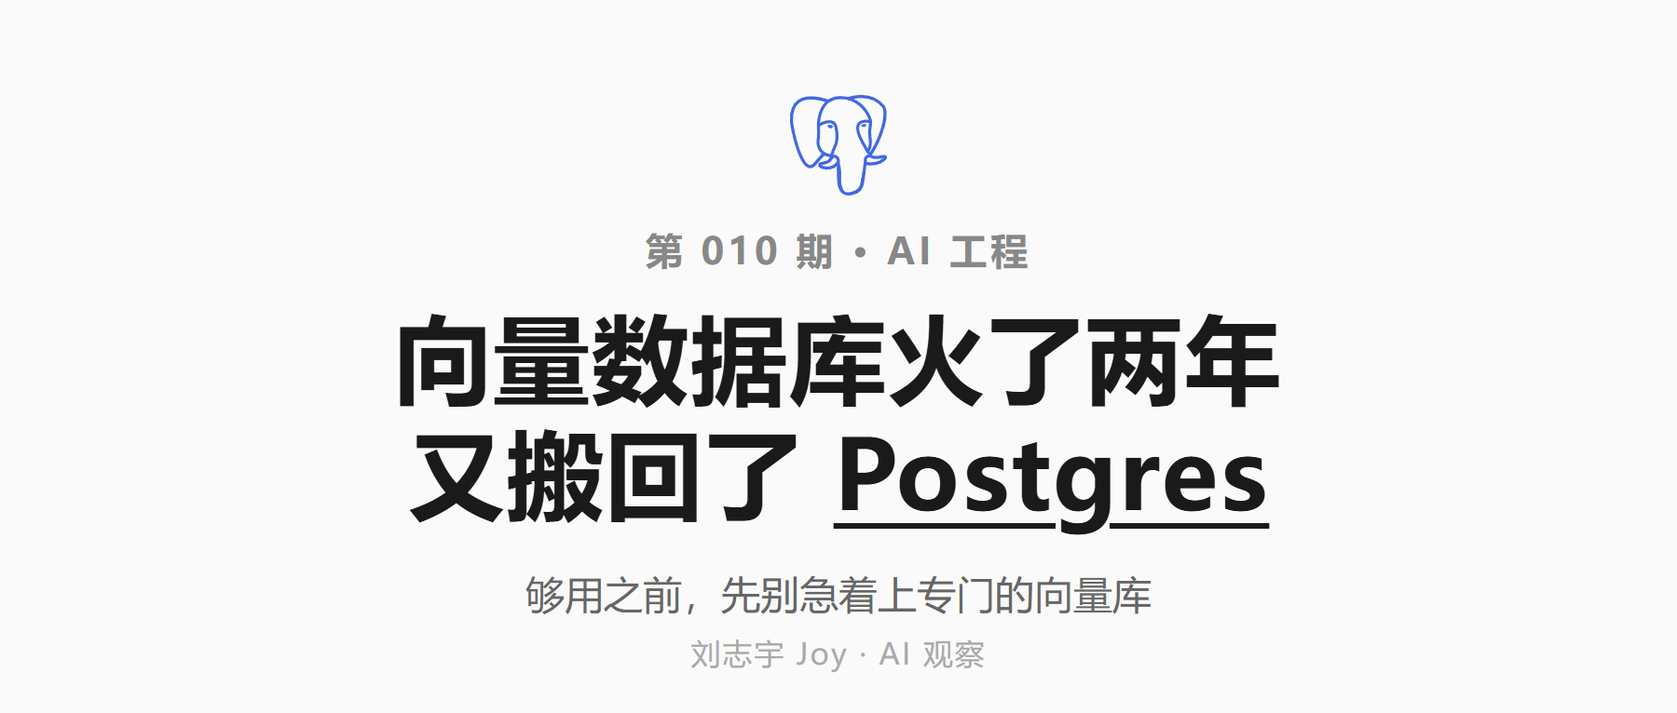
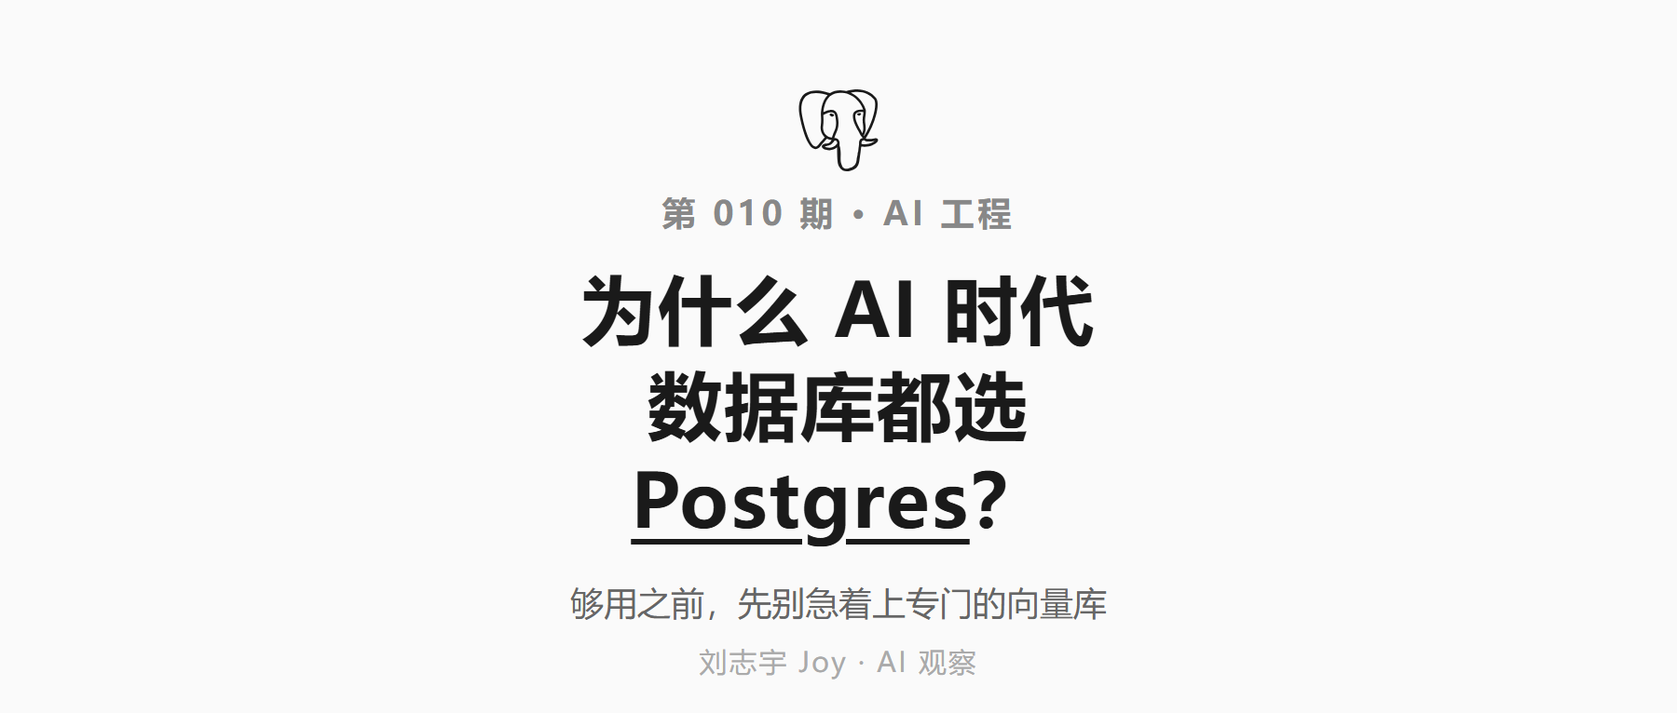
优化：010 期 · 标题改回疑问句《为什么 AI 时代的数据库都选 Postgres？》+ 删正文 3 张自制架构图 + 封面重做 + 截图位改可编辑提示行 + memory 三则
本次任务（按 Joy 反馈）:
- 标题: 直陈句改回疑问句, draft.md/wechat.html(title/h1/封面alt) 四处同步, 候选区更新
- 架构图: draft.md 与 wechat.html 正文里 diagram-1/2/3 的 img+图注全删, 只留真实网页截图位
- 封面: 换新标题文案 + PG 大象图标改纯黑(原蓝色违反零彩色) + 标题切三短行适配手机窄屏, 渲染覆盖 cover-010.png; 新增 pg-icon-black.svg
- 截图位: 灰底框占位(微信里改不动)改成可编辑提示行(裸网址+说明+"上传后删本行"); 文末下载区只留封面, copyImg 加安全上下文检测(file:// 提示用下载)
- memory: 封面纯黑白补"标题多换行" + 配图工作流补"截图位用提示行/复制图片仅 https 可用"并更新 copyImg + MEMORY.md 索引

附带: diagram-1/2/3 源文件(html/png)为本会话前既有改动, 一并提交

diff --git a/issues/010-just-use-postgres/platforms/wechat.html b/issues/010-just-use-postgres/platforms/wechat.html
@@ -3,7 +3,7 @@
 <head>
 <meta charset="UTF-8">
 <meta name="viewport" content="width=device-width, initial-scale=1.0">
-<title>向量数据库火了两年，大家又搬回了 Postgres · 公众号版</title>
+<title>为什么 AI 时代的数据库都选 Postgres？· 公众号版</title>
 <style>
   body { margin: 0; background: #f2f2f2; }
   #copy-btn { font-family: system-ui, sans-serif; }
@@ -18,10 +18,10 @@
 
 <article id="wx-body" style="max-width:677px; margin:0 auto; background:white; padding:40px 24px 60px;">
 
-  <figure style="margin:0 0 28px; text-align:center;"><img src="../assets/cover-010.png" alt="向量数据库火了两年，大家又搬回了 Postgres" width="629" style="max-width:100%; height:auto; display:block; margin:0 auto;" /></figure>
+  <figure style="margin:0 0 28px; text-align:center;"><img src="../assets/cover-010.png" alt="为什么 AI 时代的数据库都选 Postgres" width="629" style="max-width:100%; height:auto; display:block; margin:0 auto;" /></figure>
 
   <h1 style="margin:0 8px 6px; font-size:23px; font-weight:700; line-height:1.5;">
-    <span style="font-family:Optima-Regular,PingFangTC-light,'PingFang SC','Hiragino Sans GB',sans-serif; color:rgb(0,0,0);">向量数据库火了两年，大家又搬回了 Postgres</span>
+    <span style="font-family:Optima-Regular,PingFangTC-light,'PingFang SC','Hiragino Sans GB',sans-serif; color:rgb(0,0,0);">为什么 AI 时代的数据库都选 Postgres？</span>
   </h1>
   <p style="margin:0 8px 36px; line-height:1.5;">
     <span style="font-family:Optima-Regular,PingFangTC-light,sans-serif; font-size:13px; letter-spacing:0.5px; color:rgb(170,170,170);">2026 · AI 工程观察 · 刘志宇 Joy</span>
@@ -61,14 +61,13 @@
 
   <p style="margin:0 8px 32px; line-height:1.75em; letter-spacing:0.578px;"><span style="font-family:Optima-Regular,PingFangTC-light,'PingFang SC','Hiragino Sans GB',sans-serif; font-size:16px; letter-spacing:0.5px; color:rgb(34,34,34);">要看懂这个反转，得先认识 pgvector。它是个开源扩展，给 Postgres 装上向量类型和向量索引，让相似度检索变成普通 SQL 的一部分。它不算新东西，2021 年就有了，但早期只有一种较慢的索引，撑不起认真的生产负载。真正让它能打的那块拼图，是 2023 年下半年加进的 HNSW 索引。有了 HNSW，pgvector 在百万级向量上的检索延迟能压到几十毫秒、召回率超过九成，跟专用向量库放进同一个量级里比，不再是玩具。从那以后，几乎所有主流托管 Postgres，AWS、Supabase、Neon、Azure、Google Cloud，都把 pgvector 当成开箱即用的标配。</span></p>
 
+  <p style="margin:0 8px 32px; line-height:1.75em; letter-spacing:0.578px; text-align:center;"><span style="font-family:Optima-Regular,PingFangTC-light,sans-serif; font-size:14px; letter-spacing:0.5px; color:rgb(150,150,150);">〖 此处插一张截图：pgvector 已是主流（GitHub 两万多星、各大托管 Postgres 标配）<br>截图来源 github.com/pgvector/pgvector ·  上传图片后删掉本行 〗</span></p>
+
   <p style="margin:0 8px 32px; line-height:1.75em; letter-spacing:0.578px;"><span style="font-family:Optima-Regular,PingFangTC-light,'PingFang SC','Hiragino Sans GB',sans-serif; font-size:16px; letter-spacing:0.5px; color:rgb(34,34,34);">押得最狠的是 Supabase。这家公司本来就靠把 Postgres 包装成好用的后端起家，这两年它几乎把整个 AI 故事都压在 Postgres 上：开箱带 pgvector，产品线直接叫 Supabase Vector，围着它做了自动向量化、语义缓存一整套工具，还亲自写文章跟 Pinecone 比成本、比性能，论证同等场景下 pgvector 更省也更够用。市场给的回应不小：2025 年 4 月，这家走纯 Postgres 路线的公司融了两亿美元，估值二十亿。</span></p>
 
   <p style="margin:0 8px 32px; line-height:1.75em; letter-spacing:0.578px;"><span style="font-family:Optima-Regular,PingFangTC-light,'PingFang SC','Hiragino Sans GB',sans-serif; font-size:16px; letter-spacing:0.5px; color:rgb(34,34,34);">当然，Supabase 卖的就是 Postgres 托管，它说 pgvector 够用，本来就带着立场。有意思的是另一头：Pinecone 也专门写了文章，逐条论证 pgvector 为什么不够认真用，这些批评后面会收。一边卖向量库的说你需要它，一边卖 Postgres 的说你不需要，两边都有自己的立场。<strong>但风往哪边吹，看默认架构图就知道：两年前你得解释为什么敢用 Postgres 做向量，现在要解释的反过来是，为什么还得单独上一个向量库。</strong></span></p>
 
   <p style="margin:0 8px 32px; line-height:1.75em; letter-spacing:0.578px;"><span style="font-family:Optima-Regular,PingFangTC-light,'PingFang SC','Hiragino Sans GB',sans-serif; font-size:16px; letter-spacing:0.5px; color:rgb(34,34,34);">得说清楚，这不代表向量库凉了。这个市场还在快速变大，有机构预测它会从 2024 年的约二十亿美元长到 2032 年的上百亿（机构预测口径本来就宽，看个量级就好）。变的不是这门生意的死活，是它的起点位置：向量库从做 AI 应用的第一步，退回成撞到墙之后才考虑的一步。<strong style="text-decoration:underline;">pgvector 没杀死谁，它只是把最大的那块入门市场，从专用库手里端走了。</strong></span></p>
-
-  <figure style="margin:0 8px 8px; text-align:center;"><img src="../assets/diagram-1.png" alt="起点位置反转：向量库从第一步退到撞墙才考虑" width="620" style="max-width:100%; height:auto; display:block; margin:0 auto;" /></figure>
-  <p style="margin:0 8px 32px; line-height:1.6; letter-spacing:0.578px; text-align:center;"><span style="font-family:Optima-Regular,PingFangTC-light,sans-serif; font-size:12px; letter-spacing:0.5px; color:rgb(150,150,150);">图 1 · 向量库从「第一步」退到「撞墙才考虑」<br><span style="font-family:'SF Mono','Menlo',monospace; font-size:10.5px; color:rgb(180,180,180); word-break:break-all;">来源 https://techcrunch.com/2023/04/27/pinecone-drops-100m-investment-on-750m-valuation-as-vector-database-demand-grows/ · https://www.globenewswire.com/news-release/2025/03/07/3039040/0/en/Vector-Database-Market-to-Reach-USD-10-6-Billion-by-2032-SNS-Insider.html</span></span></p>
 
   <!-- 03 -->
   <section style="padding:3px; display:inline-block; border-top:6px solid rgb(0,0,0); margin:40px 8px 8px;">
@@ -85,9 +84,6 @@
   <p style="margin:0 8px 32px; line-height:1.75em; letter-spacing:0.578px;"><span style="font-family:Optima-Regular,PingFangTC-light,'PingFang SC','Hiragino Sans GB',sans-serif; font-size:16px; letter-spacing:0.5px; color:rgb(34,34,34);">第二，少养一套系统。上一个专门的向量库，你的架构里就多出一块：它要单独部署、单独配一套凭据、单独接进监控、出问题单独排查，半夜宕的时候也会单独把你叫醒。用 pgvector，这一块整个没了，向量就是你主库里的几张表。对小团队和快迭代的产品，省下的这份运维负担，常常比那点性能差更值钱。你本来人就不够，不会想再多伺候一个系统。</span></p>
 
   <p style="margin:0 8px 32px; line-height:1.75em; letter-spacing:0.578px;"><span style="font-family:Optima-Regular,PingFangTC-light,'PingFang SC','Hiragino Sans GB',sans-serif; font-size:16px; letter-spacing:0.5px; color:rgb(34,34,34);">第三，检索就是一句 SQL。向量检索不再是另一个系统的接口调用，而是普通查询的一部分。举个常见场景：你要在某个用户自己的文档里，按语义找最相关的五段。用 pgvector，这就是一条 SQL，先按用户和权限过滤，再按向量相似度排序，顺手 join 上文档表拿标题。换成两套系统，你得先去向量库查一批，再回主库验证权限、补全字段，来回倒腾，还要担心两边对不上。Postgres 三十年攒下的事务、备份、复制、权限这套东西，在这里全都顺带就用上了。</span></p>
-
-  <figure style="margin:0 8px 8px; text-align:center;"><img src="../assets/diagram-2.png" alt="两套系统要对账 vs 一个库一条 SQL 查完" width="620" style="max-width:100%; height:auto; display:block; margin:0 auto;" /></figure>
-  <p style="margin:0 8px 32px; line-height:1.6; letter-spacing:0.578px; text-align:center;"><span style="font-family:Optima-Regular,PingFangTC-light,sans-serif; font-size:12px; letter-spacing:0.5px; color:rgb(150,150,150);">图 2 · 两套系统要对账 vs 一个库搞定<br><span style="font-family:'SF Mono','Menlo',monospace; font-size:10.5px; color:rgb(180,180,180); word-break:break-all;">来源 https://encore.dev/blog/you-probably-dont-need-a-vector-database</span></span></p>
 
   <p style="margin:0 8px 32px; line-height:1.75em; letter-spacing:0.578px;"><span style="font-family:Optima-Regular,PingFangTC-light,'PingFang SC','Hiragino Sans GB',sans-serif; font-size:16px; letter-spacing:0.5px; color:rgb(34,34,34);">说到底，不是 Postgres 突然学会了做向量，是 AI 应用要存的数据，原文加元数据加向量绑在一起、还得带着过滤条件查，这个形状本来就长在关系数据库的主场上。<strong>专门的向量库擅长的是另一件事：在海量向量里做极速的最近邻。两件事不一样，只是前两年很多人没分清。</strong></span></p>
 
@@ -111,14 +107,13 @@
 
   <p style="margin:0 8px 32px; line-height:1.75em; letter-spacing:0.578px;"><span style="font-family:Optima-Regular,PingFangTC-light,'PingFang SC','Hiragino Sans GB',sans-serif; font-size:16px; letter-spacing:0.5px; color:rgb(34,34,34);">规模再往上，裸的 pgvector 也会吃力，通常在几百万到上千万向量这个区间开始显出来。续命的办法是再加一个扩展，叫 pgvectorscale，它把一部分索引放到磁盘上、不全压在内存里，专门对付大规模。做它的是 Tiger Data（原来的 Timescale）。按它自己的基准，在五千万向量的规模上加上 pgvectorscale，延迟能低到二十几倍、成本省七成多，反超 Pinecone（据 Tiger Data 自家基准）。这组数字很漂亮，但两件事得记住：一是它出自卖 Postgres 服务的公司自己的测试，口径自己定；二是立功的是 pgvectorscale 这个额外扩展，不是 pgvector 本身。这俩名字像，经常被当成一个东西，其实是两层。</span></p>
 
+  <p style="margin:0 8px 32px; line-height:1.75em; letter-spacing:0.578px; text-align:center;"><span style="font-family:Optima-Regular,PingFangTC-light,sans-serif; font-size:14px; letter-spacing:0.5px; color:rgb(150,150,150);">〖 此处插一张截图：pgvector vs Pinecone 性能与成本基准（Tiger Data 自家口径）<br>截图来源 tigerdata.com/blog/pgvector-is-now-as-fast-as-pinecone-at-75-less-cost ·  上传图片后删掉本行 〗</span></p>
+
   <p style="margin:0 8px 32px; line-height:1.75em; letter-spacing:0.578px;"><span style="font-family:Optima-Regular,PingFangTC-light,'PingFang SC','Hiragino Sans GB',sans-serif; font-size:16px; letter-spacing:0.5px; color:rgb(34,34,34);">那什么时候是专用库真正更合适？几种情况很清楚。向量到了亿级、写入吞吐极大，这是 Pinecone 这类托管系统的主场，你不用操心怎么扩容。对延迟和每秒查询数有极致要求的，Qdrant 用 Rust 写的内核在这块最快。需要很重的多租户和混合检索的，Weaviate 在这个方向上更专。还有一种最简单的情况：你的栈里压根没有 Postgres，那 pgvector 复用现有库的好处就归零，直接上一个专用库反而更干脆。</span></p>
 
   <p style="margin:0 8px 32px; line-height:1.75em; letter-spacing:0.578px;"><span style="font-family:Optima-Regular,PingFangTC-light,'PingFang SC','Hiragino Sans GB',sans-serif; font-size:16px; letter-spacing:0.5px; color:rgb(34,34,34);">反过来，从专用库迁回 Postgres 也不是免费的。有团队把生产系统从 Pinecone 迁到 pgvector，花了几天工程时间重导向量、重建索引、调参数，换来每月省下一千多美元的账单；也有团队把 Pinecone 加一套关系库，合并成 Neon 上的一个 Postgres，延迟还降了一截（这些都是迁移方或托管商自己讲的复盘，有立场，听个思路就好）。迁移有成本，但对很多正为账单和运维发愁的团队，这笔账算得过来。</span></p>
 
   <p style="margin:0 8px 32px; line-height:1.75em; letter-spacing:0.578px;"><span style="font-family:Optima-Regular,PingFangTC-light,'PingFang SC','Hiragino Sans GB',sans-serif; font-size:16px; letter-spacing:0.5px; color:rgb(34,34,34);">至于到底多少向量算该升级，没有一个干净的数字。有人说一百万，有人说五百万，也有人说一千万以上加高并发才需要，它取决于你的并发量、过滤复杂度、更新频率。</span></p>
-
-  <figure style="margin:0 8px 8px; text-align:center;"><img src="../assets/diagram-3.png" alt="默认 Postgres，撞到这几堵墙才升级专用库" width="620" style="max-width:100%; height:auto; display:block; margin:0 auto;" /></figure>
-  <p style="margin:0 8px 32px; line-height:1.6; letter-spacing:0.578px; text-align:center;"><span style="font-family:Optima-Regular,PingFangTC-light,sans-serif; font-size:12px; letter-spacing:0.5px; color:rgb(150,150,150);">图 3 · 撞到可量化的墙再升级，不是第一步<br><span style="font-family:'SF Mono','Menlo',monospace; font-size:10.5px; color:rgb(180,180,180); word-break:break-all;">来源 https://www.pinecone.io/blog/pinecone-vs-pgvector/ · https://www.tigerdata.com/blog/pgvector-is-now-as-fast-as-pinecone-at-75-less-cost</span></span></p>
 
   <p style="margin:0 8px 32px; line-height:1.75em; letter-spacing:0.578px;"><span style="font-family:Optima-Regular,PingFangTC-light,'PingFang SC','Hiragino Sans GB',sans-serif; font-size:16px; letter-spacing:0.5px; color:rgb(34,34,34);">这个数字不必纠结，关键是先后：默认用 Postgres，直到撞上一堵能量化的墙（延迟超标、内存扛不住、过滤场景做不动），再换专门的向量库。<strong style="text-decoration:underline;">它是撞墙之后的选择，不是第一步。</strong></span></p>
 
@@ -181,29 +176,15 @@
 
 <!-- 配图下载区 · 在 article 外，不会被「复制正文」带走；发布后无需理会 -->
 <section style="max-width:677px; margin:24px auto 60px; padding:28px 24px; border-top:1px solid #e6e6e6;">
-  <p style="margin:0 0 4px; font-family:system-ui,sans-serif; font-size:15px; font-weight:700; color:#111;">本文配图 · 点按钮直接复制</p>
-  <p style="margin:0 0 22px; font-family:system-ui,sans-serif; font-size:12.5px; color:#888; line-height:1.7;">点「复制图片」→ 到公众号编辑器 Ctrl+V 粘贴；或「下载」存到本地传素材库。这一区在正文之外，不会被「复制正文」带走。头图 cover-010.png 待封面生成后替换。</p>
+  <p style="margin:0 0 4px; font-family:system-ui,sans-serif; font-size:15px; font-weight:700; color:#111;">本文头图 · 点按钮直接复制</p>
+  <p style="margin:0 0 22px; font-family:system-ui,sans-serif; font-size:12.5px; color:#888; line-height:1.7;">点「复制图片」→ 到公众号编辑器 Ctrl+V 粘贴；或「下载」存到本地传素材库。这一区在正文之外，不会被「复制正文」带走。复制需在浏览器里打开（file:// 双击本地文件时复制不可用，用「下载」即可）。</p>
 
   <div style="display:flex; flex-direction:column; gap:24px;">
     <div style="text-align:center;">
-      <img id="img-d1" src="../assets/diagram-1.png" alt="图 1 起点位置反转" style="max-width:100%; width:360px; height:auto; display:block; margin:0 auto 10px; border:1px solid #e6e6e6; border-radius:4px;" />
-      <p style="margin:0 0 8px; font-family:system-ui,sans-serif; font-size:12px; color:#999;">图 1 · diagram-1.png</p>
-      <button onclick="copyImg('img-d1', this)" style="padding:7px 16px; margin:0 4px; background:#111; color:#fff; border:0; border-radius:6px; font-size:13px; font-weight:600; cursor:pointer; font-family:system-ui,sans-serif;">复制图片</button>
-      <a href="../assets/diagram-1.png" download="diagram-1.png" style="padding:7px 16px; margin:0 4px; background:#fff; color:#555; border:1px solid #ccc; border-radius:6px; font-size:13px; font-weight:600; cursor:pointer; text-decoration:none; font-family:system-ui,sans-serif;">下载</a>
-    </div>
-
-    <div style="text-align:center;">
-      <img id="img-d2" src="../assets/diagram-2.png" alt="图 2 两套系统 vs 一个库" style="max-width:100%; width:360px; height:auto; display:block; margin:0 auto 10px; border:1px solid #e6e6e6; border-radius:4px;" />
-      <p style="margin:0 0 8px; font-family:system-ui,sans-serif; font-size:12px; color:#999;">图 2 · diagram-2.png</p>
-      <button onclick="copyImg('img-d2', this)" style="padding:7px 16px; margin:0 4px; background:#111; color:#fff; border:0; border-radius:6px; font-size:13px; font-weight:600; cursor:pointer; font-family:system-ui,sans-serif;">复制图片</button>
-      <a href="../assets/diagram-2.png" download="diagram-2.png" style="padding:7px 16px; margin:0 4px; background:#fff; color:#555; border:1px solid #ccc; border-radius:6px; font-size:13px; font-weight:600; cursor:pointer; text-decoration:none; font-family:system-ui,sans-serif;">下载</a>
-    </div>
-
-    <div style="text-align:center;">
-      <img id="img-d3" src="../assets/diagram-3.png" alt="图 3 选型决策" style="max-width:100%; width:360px; height:auto; display:block; margin:0 auto 10px; border:1px solid #e6e6e6; border-radius:4px;" />
-      <p style="margin:0 0 8px; font-family:system-ui,sans-serif; font-size:12px; color:#999;">图 3 · diagram-3.png</p>
-      <button onclick="copyImg('img-d3', this)" style="padding:7px 16px; margin:0 4px; background:#111; color:#fff; border:0; border-radius:6px; font-size:13px; font-weight:600; cursor:pointer; font-family:system-ui,sans-serif;">复制图片</button>
-      <a href="../assets/diagram-3.png" download="diagram-3.png" style="padding:7px 16px; margin:0 4px; background:#fff; color:#555; border:1px solid #ccc; border-radius:6px; font-size:13px; font-weight:600; cursor:pointer; text-decoration:none; font-family:system-ui,sans-serif;">下载</a>
+      <img id="img-cover" src="../assets/cover-010.png" alt="封面" style="max-width:100%; width:360px; height:auto; display:block; margin:0 auto 10px; border:1px solid #e6e6e6; border-radius:4px;" />
+      <p style="margin:0 0 8px; font-family:system-ui,sans-serif; font-size:12px; color:#999;">封面 · cover-010.png</p>
+      <button onclick="copyImg('img-cover', this)" style="padding:7px 16px; margin:0 4px; background:#111; color:#fff; border:0; border-radius:6px; font-size:13px; font-weight:600; cursor:pointer; font-family:system-ui,sans-serif;">复制图片</button>
+      <a href="../assets/cover-010.png" download="cover-010.png" style="padding:7px 16px; margin:0 4px; background:#fff; color:#555; border:1px solid #ccc; border-radius:6px; font-size:13px; font-weight:600; cursor:pointer; text-decoration:none; font-family:system-ui,sans-serif;">下载</a>
     </div>
   </div>
 </section>
@@ -229,24 +210,33 @@ function copyWxArticle() {
   }, 2200);
 }
 
+function flash(btn, ok, failText){
+  var label = btn.getAttribute('data-label') || btn.textContent;
+  btn.setAttribute('data-label', label);
+  btn.textContent = ok ? '已复制 ✓' : (failText || '失败，请用「下载」');
+  btn.style.background = ok ? '#10b981' : '#dc2626';
+  setTimeout(function(){ btn.textContent = label; btn.style.background = '#111'; }, 2400);
+}
+
 function copyImg(imgId, btn) {
   var img = document.getElementById(imgId);
-  var label = btn.textContent;
-  function done(ok){
-    btn.textContent = ok ? '已复制 ✓' : '失败，请用「下载」';
-    btn.style.background = ok ? '#10b981' : '#dc2626';
-    setTimeout(function(){ btn.textContent = label; btn.style.background = '#111'; }, 2200);
+  // 复制图片到剪贴板依赖安全上下文（https 或 localhost）。
+  // 直接双击本地 file:// 打开时 navigator.clipboard.write 不可用，直接提示用下载。
+  if (!window.isSecureContext || !navigator.clipboard || !navigator.clipboard.write || !window.ClipboardItem) {
+    flash(btn, false, '本地打开请用「下载」');
+    return;
   }
   try {
     var c = document.createElement('canvas');
     c.width = img.naturalWidth; c.height = img.naturalHeight;
     c.getContext('2d').drawImage(img, 0, 0);
     c.toBlob(function(blob){
-      if (blob && window.ClipboardItem && navigator.clipboard && navigator.clipboard.write) {
-        navigator.clipboard.write([new ClipboardItem({'image/png': blob})]).then(function(){ done(true); }).catch(function(){ done(false); });
-      } else { done(false); }
+      if (!blob) { flash(btn, false); return; }
+      navigator.clipboard.write([new ClipboardItem({'image/png': blob})])
+        .then(function(){ flash(btn, true); })
+        .catch(function(){ flash(btn, false); });
     }, 'image/png');
-  } catch (e) { done(false); }
+  } catch (e) { flash(btn, false); }
 }
 </script>
 

diff --git a/issues/010-just-use-postgres/assets/diagram-2.html b/issues/010-just-use-postgres/assets/diagram-2.html
@@ -2,25 +2,25 @@
 <html lang="zh-CN"><head><meta charset="UTF-8">
 <style>
   * { box-sizing: border-box; }
-  body { margin:0; background:#fffdf8; font-family:'PingFang SC','Microsoft YaHei','Hiragino Sans GB',sans-serif; }
-  .fig { width:880px; background:#fffdf8; padding:44px 48px; }
+  body { margin:0; background:#fff; font-family:'PingFang SC','Microsoft YaHei','Hiragino Sans GB',sans-serif; }
+  .fig { width:880px; background:#fff; padding:44px 48px; }
   .tnum { font-family:'Futura','Helvetica Neue',Arial,sans-serif; font-size:30px; font-weight:700; color:#1a1a1a; border-top:6px solid #1a1a1a; display:inline-block; padding-top:6px; line-height:1; }
   .title { font-size:26px; font-weight:700; color:#1a1a1a; margin:16px 0 30px; }
   .cols { display:flex; gap:18px; align-items:stretch; }
-  .col { flex:1; border:1.5px solid #e2d9c2; border-radius:10px; padding:20px 20px 18px; background:#fffefb; display:flex; flex-direction:column; }
-  .lab { font-size:15px; font-weight:700; color:#9a8f78; margin-bottom:16px; }
+  .col { flex:1; border:1.5px solid #e0e0e0; border-radius:10px; padding:20px 20px 18px; background:#fcfcfc; display:flex; flex-direction:column; }
+  .lab { font-size:15px; font-weight:700; color:#888; margin-bottom:16px; }
   .node { padding:11px 14px; border-radius:8px; font-size:15px; font-weight:600; text-align:center; }
   .n-app { background:#1a1a1a; color:#fff; }
-  .n-db { background:#eceae3; color:#4a4a4a; }
-  .n-pg { background:#b8860b; color:#fff; line-height:1.35; }
-  .down { text-align:center; color:#c4b896; font-size:20px; line-height:1.1; margin:7px 0; }
+  .n-db { background:#ececec; color:#444; }
+  .n-pg { background:#1a1a1a; color:#fff; line-height:1.35; }
+  .down { text-align:center; color:#bbb; font-size:20px; line-height:1.1; margin:7px 0; }
   .two { display:flex; gap:12px; }
   .two .node { flex:1; }
-  .sync { text-align:center; font-size:13px; color:#b2402a; font-weight:700; margin:9px 0; }
-  .risk { margin-top:auto; background:#f7ece9; border-left:5px solid #b2402a; padding:11px 14px; font-size:13.5px; color:#b2402a; line-height:1.5; }
-  .good { margin-top:auto; background:#f3eddc; border-left:5px solid #b8860b; padding:11px 14px; font-size:13.5px; color:#8a6608; line-height:1.5; }
+  .sync { text-align:center; font-size:13px; color:#555; font-weight:700; margin:9px 0; }
+  .risk { margin-top:auto; background:#f2f2f2; border-left:5px solid #888; padding:11px 14px; font-size:13.5px; color:#666; line-height:1.5; }
+  .good { margin-top:auto; background:#f4f4f4; border-left:5px solid #1a1a1a; padding:11px 14px; font-size:13.5px; color:#1a1a1a; line-height:1.5; }
   .sql { font-family:'SFMono-Regular',Consolas,monospace; font-size:12.5px; }
-  .foot { margin-top:28px; font-size:13px; color:#a99c82; }
+  .foot { margin-top:28px; font-size:13px; color:#a5a5a5; }
 </style></head>
 <body>
   <div class="fig" id="fig">

diff --git a/issues/010-just-use-postgres/assets/diagram-3.html b/issues/010-just-use-postgres/assets/diagram-3.html
@@ -2,21 +2,21 @@
 <html lang="zh-CN"><head><meta charset="UTF-8">
 <style>
   * { box-sizing: border-box; }
-  body { margin:0; background:#fffdf8; font-family:'PingFang SC','Microsoft YaHei','Hiragino Sans GB',sans-serif; }
-  .fig { width:880px; background:#fffdf8; padding:44px 48px; }
+  body { margin:0; background:#fff; font-family:'PingFang SC','Microsoft YaHei','Hiragino Sans GB',sans-serif; }
+  .fig { width:880px; background:#fff; padding:44px 48px; }
   .tnum { font-family:'Futura','Helvetica Neue',Arial,sans-serif; font-size:30px; font-weight:700; color:#1a1a1a; border-top:6px solid #1a1a1a; display:inline-block; padding-top:6px; line-height:1; }
   .title { font-size:26px; font-weight:700; color:#1a1a1a; margin:16px 0 30px; }
-  .start { background:#b8860b; color:#fff; border-radius:10px; padding:16px 20px; font-size:19px; font-weight:700; text-align:center; }
-  .start span { display:block; font-size:13px; font-weight:600; opacity:.9; margin-top:3px; }
-  .down { text-align:center; color:#c4b896; font-size:24px; margin:12px 0 6px; }
+  .start { background:#1a1a1a; color:#fff; border-radius:10px; padding:16px 20px; font-size:19px; font-weight:700; text-align:center; }
+  .start span { display:block; font-size:13px; font-weight:600; opacity:.85; margin-top:3px; }
+  .down { text-align:center; color:#bbb; font-size:24px; margin:12px 0 6px; }
   .wallrow { display:flex; gap:14px; }
-  .wall { flex:1; background:#f7ece9; border:1.5px solid #e6c9c0; border-radius:9px; padding:15px 14px; text-align:center; }
-  .wall .h { font-size:16px; font-weight:700; color:#b2402a; margin-bottom:5px; }
-  .wall .d { font-size:12.5px; color:#a86b5e; line-height:1.45; }
-  .hint { text-align:center; font-size:13px; color:#9a8f78; margin:14px 0 6px; }
+  .wall { flex:1; background:#f4f4f4; border:1.5px solid #d8d8d8; border-radius:9px; padding:15px 14px; text-align:center; }
+  .wall .h { font-size:16px; font-weight:700; color:#1a1a1a; margin-bottom:5px; }
+  .wall .d { font-size:12.5px; color:#777; line-height:1.45; }
+  .hint { text-align:center; font-size:13px; color:#999; margin:14px 0 6px; }
   .end { background:#1a1a1a; color:#fff; border-radius:10px; padding:15px 20px; font-size:17px; font-weight:700; text-align:center; }
   .end span { display:block; font-size:13px; font-weight:500; opacity:.82; margin-top:4px; }
-  .foot { margin-top:28px; font-size:13px; color:#a99c82; }
+  .foot { margin-top:28px; font-size:13px; color:#a5a5a5; }
 </style></head>
 <body>
   <div class="fig" id="fig">

diff --git a/issues/010-just-use-postgres/assets/cover.html b/issues/010-just-use-postgres/assets/cover.html
@@ -4,18 +4,18 @@
   * { box-sizing: border-box; }
   body { margin:0; background:#fff; font-family:'PingFang SC','Microsoft YaHei','Hiragino Sans GB',sans-serif; }
   .cover { width:900px; height:383px; background:#fafafa; position:relative; overflow:hidden; display:flex; flex-direction:column; align-items:center; justify-content:center; }
-  .pgicon { width:54px; height:54px; display:block; margin-bottom:16px; }
-  .kicker { font-size:20px; color:#888; font-weight:600; letter-spacing:2px; margin-bottom:14px; }
-  .title { font-size:52px; font-weight:800; color:#1a1a1a; line-height:1.2; text-align:center; letter-spacing:1px; }
-  .title .em { color:#1a1a1a; text-decoration:underline; text-decoration-thickness:3px; text-underline-offset:7px; }
-  .sub { margin-top:20px; font-size:21px; color:#666; font-weight:500; }
-  .foot { position:absolute; bottom:22px; left:0; right:0; text-align:center; font-size:16px; color:#aaa; letter-spacing:1px; }
+  .pgicon { width:44px; height:44px; display:block; margin-bottom:10px; }
+  .kicker { font-size:18px; color:#888; font-weight:600; letter-spacing:2px; margin-bottom:14px; }
+  .title { font-size:40px; font-weight:800; color:#1a1a1a; line-height:1.28; text-align:center; letter-spacing:1px; }
+  .title .em { color:#1a1a1a; text-decoration:underline; text-decoration-thickness:3px; text-underline-offset:6px; }
+  .sub { margin-top:18px; font-size:18px; color:#666; font-weight:500; }
+  .foot { position:absolute; bottom:18px; left:0; right:0; text-align:center; font-size:15px; color:#aaa; letter-spacing:1px; }
 </style></head>
 <body>
   <div class="cover">
-    <img class="pgicon" src="pg-icon.svg" alt="PostgreSQL">
+    <img class="pgicon" src="pg-icon-black.svg" alt="PostgreSQL">
     <div class="kicker">第 010 期 · AI 工程</div>
-    <div class="title">向量数据库火了两年<br>又搬回了 <span class="em">Postgres</span></div>
+    <div class="title">为什么 AI 时代<br>数据库都选<br><span class="em">Postgres</span>？</div>
     <div class="sub">够用之前，先别急着上专门的向量库</div>
     <div class="foot">刘志宇 Joy · AI 观察</div>
   </div>

diff --git a/issues/010-just-use-postgres/assets/diagram-1.html b/issues/010-just-use-postgres/assets/diagram-1.html
@@ -13,12 +13,12 @@
   .stack { display:flex; flex-direction:column; gap:9px; }
   .box { padding:12px 15px; border-radius:8px; font-size:16px; font-weight:600; line-height:1.3; }
   .b-model { background:#eceae3; color:#4a4a4a; }
-  .b-hot { background:#b8860b; color:#fff; }
+  .b-hot { background:#1a1a1a; color:#fff; }
   .b-cold { background:#f2eee4; color:#a59d8a; border:1px dashed #cdbf9f; }
   .tag { display:block; font-size:12px; font-weight:600; margin-top:3px; opacity:.88; }
   .plus { text-align:center; color:#c4b896; font-weight:700; font-size:15px; line-height:1; }
   .arrow { display:flex; flex-direction:column; justify-content:center; align-items:center; color:#9a8f78; font-family:'Futura',sans-serif; font-size:12px; font-weight:700; padding:0 2px; }
-  .arrow .a { font-size:32px; line-height:1; color:#b8860b; }
+  .arrow .a { font-size:32px; line-height:1; color:#1a1a1a; }
   .foot { margin-top:28px; font-size:13px; color:#a99c82; }
 </style></head>
 <body>

diff --git a/issues/010-just-use-postgres/draft.md b/issues/010-just-use-postgres/draft.md
@@ -1,12 +1,12 @@
-# 向量数据库火了两年,大家又搬回了 Postgres
+# 为什么 AI 时代的数据库都选 Postgres？
 
 > 标题候选(定稿拍板):
-> A(主推)向量数据库火了两年,大家又搬回了 Postgres
-> B 做 AI 应用,你多半不需要专门的向量数据库
-> C 先别急着上向量数据库
-> D AI 没催生新数据库,反而把大家送回了 Postgres
+> A(主推)为什么 AI 时代的数据库都选 Postgres？
+> B 为什么 AI 时代越来越多人选 Postgres
+> C 向量数据库火了两年,大家又搬回了 Postgres
+> D 做 AI 应用,你多半不需要专门的向量数据库
 >
-> 状态:**v3**。按 Joy 反馈:每章加正文引导 / 背景,内容写深(补机制、场景、迁移案例),每张图下挂来源网址。事实带 inline 链接(markdown 真源);HNSW(0.5.0 / 2023 下半年)、Pinecone B 轮、Supabase 融资已核实。转 wechat.html 时撤正文链接、把图注来源烤进图里。
+> 状态:**v4**。按 Joy 反馈:标题改回疑问句(不剧透结论);删掉正文里 3 张自制架构图(diagram-1/2/3),只保留真实网页截图位。内容写深(补机制、场景、迁移案例),事实带 inline 链接(markdown 真源);HNSW(0.5.0 / 2023 下半年)、Pinecone B 轮、Supabase 融资已核实。转 wechat.html 时撤正文链接。
 
 ---
 
@@ -36,8 +36,7 @@
 
 得说清楚,这不代表向量库凉了。这个市场还在快速变大,有机构预测它会从 2024 年的约二十亿美元长到 2032 年的上百亿(机构预测口径本来就宽,看个量级就好)。变的不是这门生意的死活,是它的起点位置:向量库从做 AI 应用的第一步,退回成撞到墙之后才考虑的一步。pgvector 没杀死谁,它只是把最大的那块入门市场,从专用库手里端走了。
 
-![图 1 · 起点位置的反转:向量库从「第一步」退到「撞墙才考虑」· 待生成](assets/diagram-1.png)
-> 图注来源:Pinecone B 轮报道 https://techcrunch.com/2023/04/27/pinecone-drops-100m-investment-on-750m-valuation-as-vector-database-demand-grows/ · 市场规模预测 https://www.globenewswire.com/news-release/2025/03/07/3039040/0/en/Vector-Database-Market-to-Reach-USD-10-6-Billion-by-2032-SNS-Insider.html
+> 📷 额外截图位（Joy 自截真实网页）:pgvector 已是主流 — https://github.com/pgvector/pgvector
 
 ## 03 为什么偏偏是 Postgres
 
@@ -48,9 +47,6 @@
 第二,少养一套系统。上一个专门的向量库,你的架构里就多出一块:它要单独部署、单独配一套凭据、单独接进监控、出问题单独排查,半夜宕的时候也会单独把你叫醒。用 pgvector,这一块整个没了,向量就是你主库里的几张表。对小团队和快迭代的产品,省下的这份运维负担,常常比那点性能差更值钱。你本来人就不够,不会想再多伺候一个系统。
 
 第三,检索就是一句 SQL。向量检索不再是另一个系统的接口调用,而是普通查询的一部分。举个常见场景:你要在某个用户自己的文档里,按语义找最相关的五段。用 pgvector,这就是一条 SQL,先按用户和权限过滤,再按向量相似度排序,顺手 join 上文档表拿标题。换成两套系统,你得先去向量库查一批,再回主库验证权限、补全字段,来回倒腾,还要担心两边对不上。Postgres 三十年攒下的事务、备份、复制、权限这套东西,在这里全都顺带就用上了。
-
-![图 2 · 两套系统要对账 vs 一个库一条 SQL 查完 · 待生成](assets/diagram-2.png)
-> 图注来源:Encore https://encore.dev/blog/you-probably-dont-need-a-vector-database
 
 说到底,不是 Postgres 突然学会了做向量,是 AI 应用要存的数据,原文加元数据加向量绑在一起、还得带着过滤条件查,这个形状本来就长在关系数据库的主场上。专门的向量库擅长的是另一件事:在海量向量里做极速的最近邻。两件事不一样,只是前两年很多人没分清。
 
@@ -74,8 +70,7 @@
 
 至于到底多少向量算该升级,没有一个干净的数字。有人说一百万,有人说五百万,也有人说一千万以上加高并发才需要,它取决于你的并发量、过滤复杂度、更新频率。
 
-![图 3 · 默认 Postgres,撞到这几堵墙才升级专用库 · 待生成](assets/diagram-3.png)
-> 图注来源:Pinecone https://www.pinecone.io/blog/pinecone-vs-pgvector/ · Tiger Data https://www.tigerdata.com/blog/pgvector-is-now-as-fast-as-pinecone-at-75-less-cost
+> 📷 额外截图位（Joy 自截真实网页）:pgvector vs Pinecone 性能/成本基准（Tiger Data 自家口径） — https://www.tigerdata.com/blog/pgvector-is-now-as-fast-as-pinecone-at-75-less-cost
 
 这个数字不必纠结,关键是先后:默认用 Postgres,直到撞上一堵能量化的墙(延迟超标、内存扛不住、过滤场景做不动),再换专门的向量库。它是撞墙之后的选择,不是第一步。
 

diff --git a/memory/feedback_wechat_image_workflow.md b/memory/feedback_wechat_image_workflow.md
@@ -13,6 +13,19 @@ Joy 2026-05-30 定的标配。每期 wechat.html 里所有正文配图（头图 
    - **「下载」**（白底次按钮）：`<a download="文件名.png">` 兜底，存本地再传素材库。
 3. **本地图不要加 `crossorigin="anonymous"`**。`file://` 下加它会让 canvas 被「污染」、`toBlob` 抛错、复制失败。同源本地图不需要它。
 
+## 截图位占位：用「可编辑提示行」，绝不用灰底框（Joy 2026-05-31）
+
+正文里"待 Joy 自己进网址截图"的位置，**不能用带样式的灰底 div 占位块**（`background:#f5f5f5` 那种）。
+原因：Joy 的工作流是把整个 wechat.html 复制进微信编辑器，灰底框进了编辑器后**改不动、也没法在原位替换成截图**，等于死块。
+
+正确做法：占位写成**和正文同款的普通 `<p>` 段落**（纯文本、灰色小字、居中），内容是一行提示：
+
+```html
+<p style="margin:0 8px 32px; line-height:1.75em; letter-spacing:0.578px; text-align:center;"><span style="font-family:Optima-Regular,PingFangTC-light,sans-serif; font-size:14px; letter-spacing:0.5px; color:rgb(150,150,150);">〖 此处插一张截图：<说明> <br>截图来源 <裸网址不带 https://> ·  上传图片后删掉本行 〗</span></p>
+```
+
+要点：① 是可编辑文本段，贴进微信后光标点这行就能在原位上传图、再删提示；② 网址写成裸域名（`github.com/...`），不要 `<a>` 链接也不要 `https://`，省得微信变蓝/可点；③ 三要素齐全——做什么截图、来源网址、"上传后删本行"。
+
 ## 样式（守零彩色）
 
 - 下载区**不要底色块**（黄底 / 灰底都不行，违反 design.md 零彩色）。只用一条 `border-top:1px solid #e6e6e6` 细线分隔。
@@ -21,17 +34,30 @@ Joy 2026-05-30 定的标配。每期 wechat.html 里所有正文配图（头图 
 
 ## copyImg 函数（放 `</script>` 里，与 copyWxArticle 并列）
 
+复制图片到剪贴板**只在安全上下文（https / localhost）可用**。Joy 双击本地文件是 `file://`，
+`navigator.clipboard.write` 在那里一定不可用——这是浏览器策略，不是 bug。所以先检测 `isSecureContext`，
+本地打开时直接提示「本地打开请用下载」，不假装失败。要真用复制，让 Joy 用 `python -m http.server` 起 localhost 打开。
+
 ```js
+function flash(btn, ok, failText){
+  var label = btn.getAttribute('data-label') || btn.textContent;
+  btn.setAttribute('data-label', label);
+  btn.textContent = ok ? '已复制 ✓' : (failText || '失败，请用「下载」');
+  btn.style.background = ok ? '#10b981' : '#dc2626';
+  setTimeout(function(){ btn.textContent = label; btn.style.background = '#111'; }, 2400);
+}
 function copyImg(imgId, btn){
-  var img=document.getElementById(imgId), label=btn.textContent;
-  function done(ok){ btn.textContent=ok?'已复制 ✓':'失败，请用「下载」'; btn.style.background=ok?'#10b981':'#dc2626';
-    setTimeout(function(){btn.textContent=label;btn.style.background='#111';},2200); }
-  try{ var c=document.createElement('canvas'); c.width=img.naturalWidth; c.height=img.naturalHeight;
+  var img = document.getElementById(imgId);
+  if (!window.isSecureContext || !navigator.clipboard || !navigator.clipboard.write || !window.ClipboardItem) {
+    flash(btn, false, '本地打开请用「下载」'); return;
+  }
+  try {
+    var c=document.createElement('canvas'); c.width=img.naturalWidth; c.height=img.naturalHeight;
     c.getContext('2d').drawImage(img,0,0);
-    c.toBlob(function(b){ if(b&&window.ClipboardItem&&navigator.clipboard&&navigator.clipboard.write){
-      navigator.clipboard.write([new ClipboardItem({'image/png':b})]).then(function(){done(true);}).catch(function(){done(false);});
-    } else { done(false); } },'image/png');
-  }catch(e){ done(false); }
+    c.toBlob(function(b){ if(!b){flash(btn,false);return;}
+      navigator.clipboard.write([new ClipboardItem({'image/png':b})]).then(function(){flash(btn,true);}).catch(function(){flash(btn,false);});
+    },'image/png');
+  } catch(e){ flash(btn,false); }
 }
 ```
 

diff --git a/memory/feedback_cover_blackwhite.md b/memory/feedback_cover_blackwhite.md
@@ -14,6 +14,7 @@ Joy 2026-05-31：封面（头图）要**纯黑白、零彩色**，并且要有 l
 - 但配色全部黑白灰：底 `#fafafa` / 白，标题 `#1a1a1a`，副标 `#666`，署名 `#aaa`，竖条 / pill 边框 / logo 方块全用黑 `#1a1a1a`，**关键词强调用下划线（text-decoration underline）而不是颜色**。
 - **不放顶部 logo / badge 行**（Joy 2026-05-31 明确嫌它占顶部）。主视觉改用**与本期主题相关的单色图标**，居中放在标题上方（如 010 用 Postgres 大象）。图标从 simple-icons 取黑色版：`Invoke-WebRequest "https://cdn.simpleicons.org/<slug>/1a1a1a" -OutFile assets/icon.svg`，用 `<img src="icon.svg">` 引入。Joy 身份靠底部署名「刘志宇 Joy · AI 观察」就够，不必再放 logo。
 - 做法：写一个 div 版 `assets/cover.html`（不用 cover-template 的 canvas），`navigate` → `emulate viewport 900x383x2` → `take_screenshot` 存 `cover-0XX.png`。比 canvas 模板可控。
+- **标题多换行、别让字挤在一起**（Joy 2026-05-31 强调）：封面 / 头图在手机窄屏上看，一行太长会挤成一团不好读。标题按语义切成更多、更短的行（每行尽量少字），宁可多一行也别让单行过长；字号可随行数适当调小，保证整体仍居中、不溢出 383 高。
 - 范围：本条只管**封面**。正文结构图（diagram）的书摘风暗金 / 暗红是另一回事（009 先例、Joy 接受过）；除非 Joy 要全套黑白统一，否则正文图不动。
 
 关联：[[feedback_text_architecture_diagrams]] · [[feedback_wechat_image_workflow]] · [[feedback_writing_voice]]
